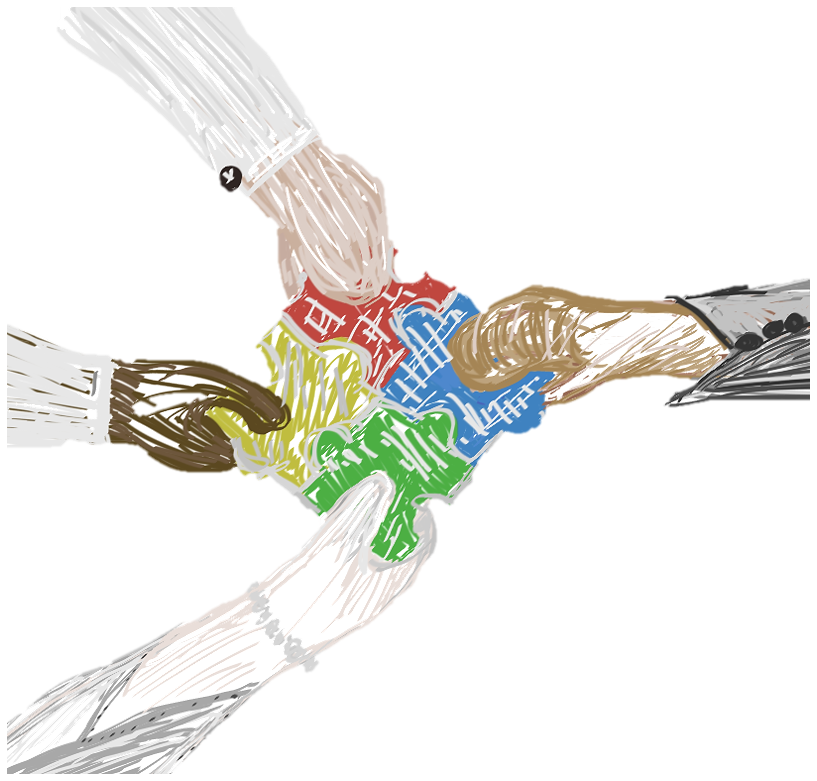
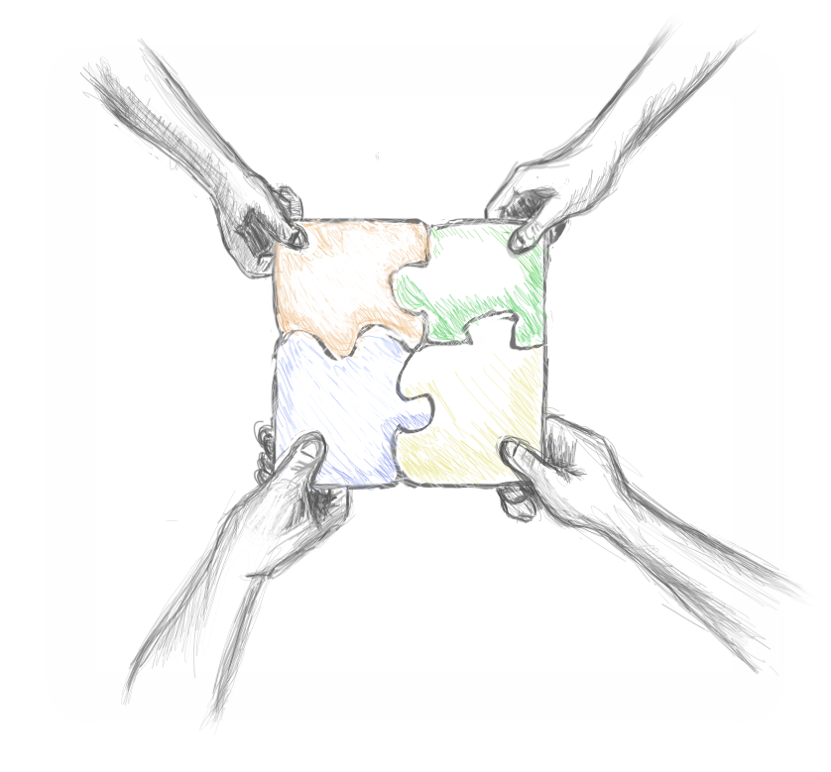
add more to  About Me modal

Changed region(s): [[0.0, 0.0, 1.0, 0.9948], [0.765, 0.0311, 0.7956, 0.0933]]

diff --git a/index.html b/index.html
@@ -125,21 +125,24 @@ fa fa-linkedin-square
 									<h1>ABOUT ME</h1>
 								</div>
 								<div class="modal-body">
-								</br></br>
+									</br></br>
 									<h3>
-											<b>I’m a senior at the University of Washington-Bothell</b>, working towards a Bachelor of Arts in Applied Computing with 
-											a minor in Human-Computer Interaction. I’m a <u> co-founder</u> and <u>treasurer</u> for the <b>Interaction Design Association (IxDA) @ UWB</b>, 
-											which focuses on nurturing and developing knowledge in the discipline of interaction design. 
-											After graduation <u>I foresee a career as a UX Researcher or UX Designer.</u> 
-									 </h3>
+										<b>I’m a senior at the University of Washington-Bothell</b>, working towards a
+										Bachelor of Arts in Applied Computing with
+										a minor in Human-Computer Interaction. I’m a <u> co-founder</u> and
+										<u>treasurer</u> for the <b>Interaction Design Association (IxDA) @ UWB</b>,
+										which focuses on nurturing and developing knowledge in the discipline of
+										interaction design.
+										After graduation <u>I foresee a career as a UX Researcher or UX Designer.</u>
+									</h3>
 
 									</br></br>
-										<h2><b><u>&nbsp;&nbsp;&nbsp;&nbsp;&nbsp;&nbsp;&nbsp;&nbsp;&nbsp;&nbsp;&nbsp;&nbsp;&nbsp;
-											&nbsp;&nbsp;&nbsp;&nbsp;&nbsp;&nbsp;&nbsp;&nbsp;&nbsp;&nbsp;
-											How I work
-											&nbsp;&nbsp;&nbsp;&nbsp;&nbsp;&nbsp;&nbsp;&nbsp;&nbsp;&nbsp;
-											&nbsp;&nbsp;&nbsp;&nbsp;&nbsp;&nbsp;&nbsp;&nbsp;&nbsp;&nbsp;
-											&nbsp;&nbsp;&nbsp;&nbsp;&nbsp;&nbsp;</u> </b></h2>
+									<h2><b><u>&nbsp;&nbsp;&nbsp;&nbsp;&nbsp;&nbsp;&nbsp;&nbsp;&nbsp;&nbsp;&nbsp;&nbsp;&nbsp;
+												&nbsp;&nbsp;&nbsp;&nbsp;&nbsp;&nbsp;&nbsp;&nbsp;&nbsp;&nbsp;
+												How I work
+												&nbsp;&nbsp;&nbsp;&nbsp;&nbsp;&nbsp;&nbsp;&nbsp;&nbsp;&nbsp;
+												&nbsp;&nbsp;&nbsp;&nbsp;&nbsp;&nbsp;&nbsp;&nbsp;&nbsp;&nbsp;
+												&nbsp;&nbsp;&nbsp;&nbsp;&nbsp;&nbsp;</u> </b></h2>
 
 									<h2> </h2>
 
@@ -155,7 +158,8 @@ fa fa-linkedin-square
 									</div>
 
 
-									<h3><b>I have a natural curiosity of human behavior. </b> </br> I'm motivated by the unknown, asks
+									<h3><b>I have a natural curiosity of human behavior. </b> </br> I'm motivated by the
+										unknown, asks
 										questions and investigate. </h3>
 
 									<div class="column-alt4">
@@ -163,16 +167,19 @@ fa fa-linkedin-square
 											style="width:100%">
 									</div>
 
-									<h3><b>I'm an active listener.</b> </br>Im able to process and understand what is being communicated.  </h3>
+									<h3><b>I'm an active listener.</b> </br>Im able to process and understand what is
+										being communicated. </h3>
 
 									<div class="column-alt4">
 										<img src="images/active-listener-transparent.png" alt="active listener "
 											style="width:100%">
 									</div>
 
-									<h3> <b>I am driven by the excitement of diving deep into complex problems spaces.</b></br>
-										 I find  satisfaction in uncovering solutions and meeting the goals of people. </h3>
-									
+									<h3> <b>I am driven by the excitement of diving deep into complex problems
+											spaces.</b></br>
+										I find satisfaction in uncovering solutions and meeting the goals of people.
+									</h3>
+
 
 
 									<div class="column-alt4">
@@ -181,61 +188,70 @@ fa fa-linkedin-square
 									</div>
 
 
-									<h3> I've seen my best work happen in innovative workspaces.</h3>
-									<h2><b>I think outside the box...</b></h2>
+									<h3> I've seen my best work happen in innovative workspaces.</br>
+									<b>I think outside the box...</b></h3>
 									<div class="column-alt4">
 										<img src="images/outside the box 1.png" alt="outside the box"
 											style="width:100%">
 									</div>
 
-									
 
-									<h3><b>My strategy and design process.</b> </br>Understanding the people we're designing for in order
+
+									<h3><b>My strategy and design process.</b> </br>Understanding the people we're
+										designing for in order
 										to create things that are meaningful and relevant.</h3>
 
-										<div class="column-alt4">
-											<img src="images/My process transparent.png" alt="my process "
-												style="width:100%">
-										</div>
-	
+									<div class="column-alt4">
+										<img src="images/My process transparent.png" alt="my process "
+											style="width:100%">
+									</div>
 
 
-										<h3>I love to collaboratively sketch, brainstorm, co-create with users,
+
+									<h3><b>I bring my own unique piece of the puzzle to the a team.</b> </br>I love to collaboratively sketch, brainstorm, co-create with users,
 										solve problems and work closely with my team.</h3>
 
-										<div class="column-alt4">
-												<img src="images/teamwork-transparent-1.png" alt="my process "
-													style="width:100%">
-											</div>
+									<div class="column-alt4">
+										<img src="images/teamwork-transparent.png" alt="teamwork "
+											style="width:100%">
+									</div>
 
-									<h3><b>In my spare time...</b></h3>
+									<h3><b>In my spare time...</b></br> When I'm not in school, I enjoy outdoor activities, traveling, listening to podcasts and playing piano.</h3>
+
+									<div class="column-alt4">
+										<img src="images/sparetime-transparent2.png" alt="my sparetime"
+											style="width:100%">
+									</div>
 								</div>
 								<div class="modal-footer"
-								style=" margin-left: auto; margin-right: auto; text-align: center;">
-								<ul class="actions">
-										<li><a target=_blank
-												href="images/Portfolio resume .pdf"
-												class="button alt"><i class=" "></i>My Resume</a></li>
+									style=" margin-left: auto; margin-right: auto; text-align: center;">
+									<ul class="actions">
+										<li><a target=_blank href="images/Portfolio resume .pdf" class="button alt"><i
+													class=" "></i>My Resume</a></li>
 									</ul>
-																
-								<div style=" display: flex; flex-direction: row-reverse; ">
+
+									<div style=" display: flex; flex-direction: row-reverse; ">
 
 										<ul class="social">
-												<h3><u>&nbsp;&nbsp;&nbsp;&nbsp;&nbsp;
-														&nbsp;&nbsp;&nbsp;&nbsp;&nbsp;&nbsp;&nbsp;&nbsp;&nbsp;&nbsp;
-														Connect with me&nbsp;&nbsp;&nbsp;&nbsp;&nbsp;&nbsp;&nbsp;&nbsp;&nbsp;&nbsp;&nbsp;&nbsp;
-														&nbsp;&nbsp;</u></h3>
-												<li><a class="icon brands fa-github-square" href="#"><span class="label">Github</span></a></li>
-												<li><a class="icon brands fa-linkedin-in" href="#"><span class="label">LinkedIn</span></a></li>
-												<li><a class="far fa-envelope" href="mailto:amhay@uw.com"><span class="label"></span></a></li>
-												
-											</ul>
-											
+											<h3><u>&nbsp;&nbsp;&nbsp;&nbsp;&nbsp;
+													&nbsp;&nbsp;&nbsp;&nbsp;&nbsp;&nbsp;&nbsp;&nbsp;&nbsp;&nbsp;
+													Connect with
+													me&nbsp;&nbsp;&nbsp;&nbsp;&nbsp;&nbsp;&nbsp;&nbsp;&nbsp;&nbsp;&nbsp;&nbsp;
+													&nbsp;&nbsp;</u></h3>
+											<li><a class="icon brands fa-github-square" href="#"><span
+														class="label">Github</span></a></li>
+											<li><a class="icon brands fa-linkedin-in" href="#"><span
+														class="label">LinkedIn</span></a></li>
+											<li><a class="far fa-envelope" href="mailto:amhay@uw.com"><span
+														class="label"></span></a></li>
+
+										</ul>
+
 									</div>
 
 									<h2></h2>
-									
-							</div>
+
+								</div>
 							</div>
 
 						</div>
@@ -264,7 +280,7 @@ fa fa-linkedin-square
 							<li><a target=_blank href="images/Portfolio resume .pdf" class="button "> Find out more</a>
 							</li>
 						</ul>
-						
+
 					</div>
 				</div>
 				<footer>
@@ -1807,16 +1823,12 @@ fa fa-linkedin-square
 							<header id=footer-alt>
 								<h1>Thank You For Visiting</h1>
 							</header>
-
-
 						</section>
 					</div>
-
-
-
 				</div>
-				<h3>Contact Me</h3>
 
+
+				<h3>Contact Me</h3>
 				<ul class="contact">
 					<li>
 					</li>
